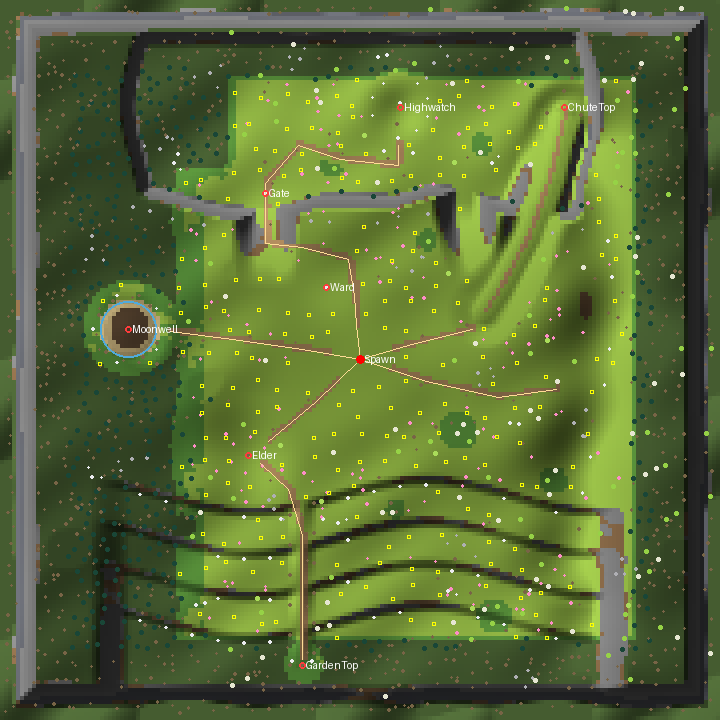
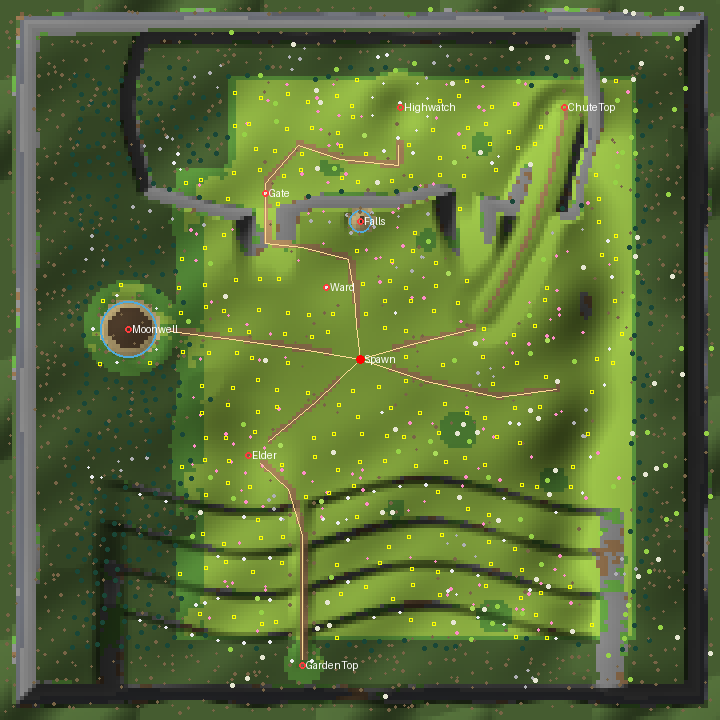
M3.A: landmark dev hook, roadmap, refreshed plan and preview sheet
- `site <name>` in Workspace.BonkDev stands the hero in front of a
  Wardwood landmark (`site` alone lists them), for the Studio playtest.
- Roadmap: M3.A state and the playtest it needs; proto/wardwood superseded.
- work/map/plan_world.png and preview_sheet.jpg regenerated from the
  current world (offline previews, not Studio captures).

Checks: rojo build, lune run test 155, selene, stylua, map prover PASS.

diff --git a/docs/ROADMAP.md b/docs/ROADMAP.md
@@ -31,13 +31,22 @@ explicit decision by Tiago and Diogo.
 - **Next playable result:** M3.A Wardwood (see M3).
 - **Blockers:** none.
 
-## M3 Art Direction & Wardwood — prototype
+## M3 Art Direction & Wardwood — in progress
 
-- **State:** visual direction chosen; greybox on branch `proto/wardwood` (on top of M1.B, not
-  merged).
-- **Next playable result:** a validated, playable Wardwood version integrated into `main`.
-- **Blockers:** the branch needs a review and Studio validation; it still uses ProtoPull
-  (`tools/proto`), to be moved to the Rojo workflow when it is integrated.
+- **State:** M3.A (`bonk-0.9.0-m3a`, branch `feat/m3a-wardwood`) turns the map into the
+  Wardwood, golden-hour Meadows look, built for hops and slides: reshaped landforms (Thunder
+  Chute slide run, Elder Hill, curved Terraced Gardens, the Moonwell wading pond, the falls
+  down the Highwatch's face, a mountain rim), landmarks (the Ward, the Runic Gate, the
+  Highwatch ruins, the Elder tree, the Moonwell stones, ridge standing stones), cool spruce
+  forest and warm oak/birch groves, paths, lighting, ambient effects. Pure layout in
+  `Core/World` + `Core/Blueprints`; offline previews from `tools/map/export_world.luau` and
+  `preview_blender.py`. Offline checks only: **not yet seen in Studio**. Supersedes the
+  `proto/wardwood` greybox (its ward platform, paths and golden/teal looks were reused; its
+  ProtoPull tooling was not).
+- **Next playable result:** Studio playtest of M3.A: the look (lighting, haze, terrain
+  colours, grass), the first view and the lobby, chute/ridge/garden slides, frame rate with a
+  horde. `site <name>` in Workspace.BonkDev jumps to each landmark.
+- **Blockers:** none.
 
 ## M4 Horde & Performance — not started
 
